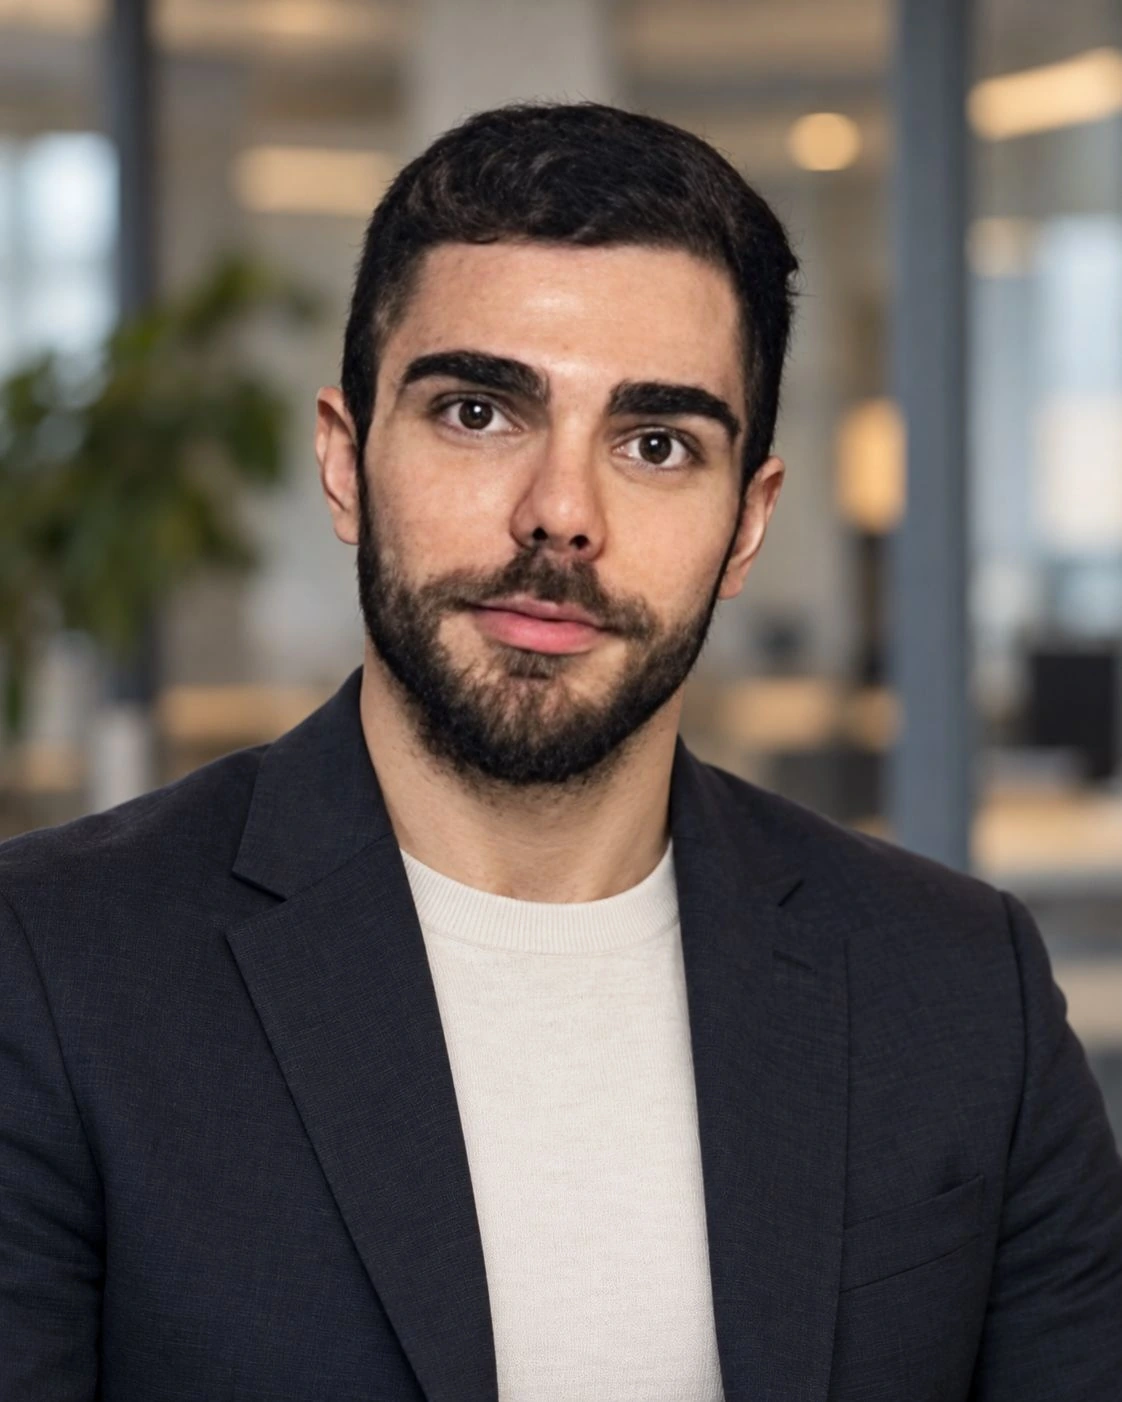
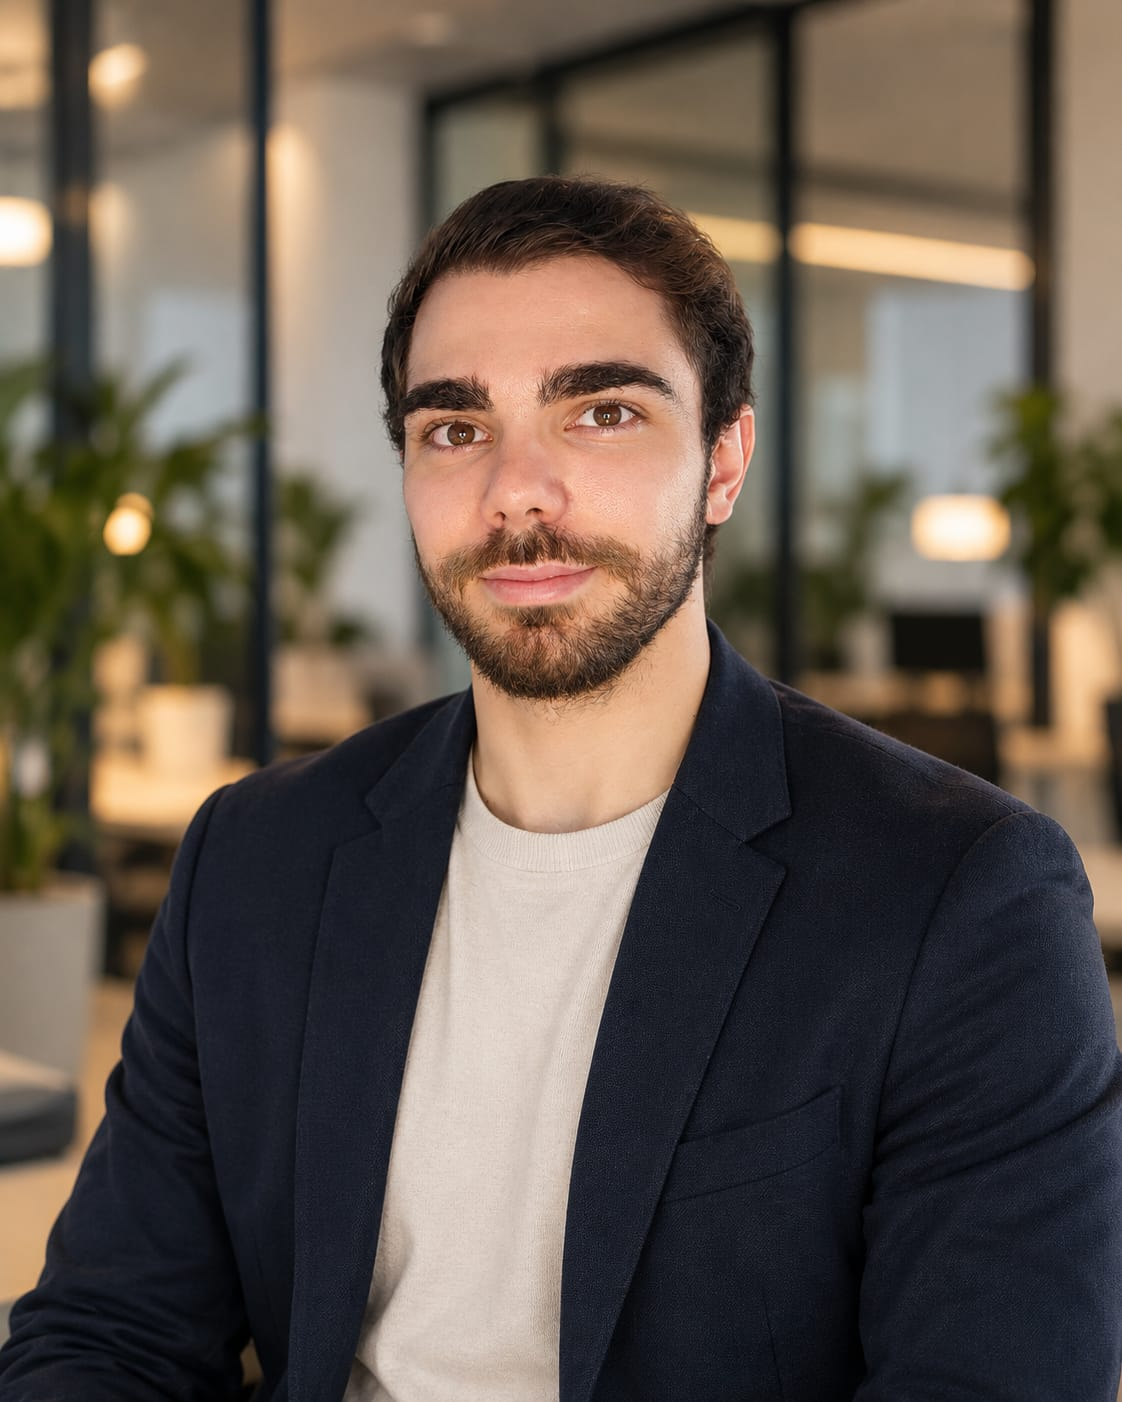
fix(team): update Victor portrait

diff --git a/index.html b/index.html
@@ -1475,7 +1475,7 @@
             </header>
             <div class="person-content" id="victor-ramirez-marcos-details">
               <figure class="person-photo">
-                <img src="/assets/team/victor-ramirez-marcos.webp?v=20261005-equipo-completo" width="1122" height="1402" alt="Víctor Manuel Ramírez" loading="lazy" decoding="async" />
+                <img src="/assets/team/victor-ramirez-marcos.webp?v=20261021-victor" width="1122" height="1402" alt="Víctor Manuel Ramírez" loading="lazy" decoding="async" />
               </figure>
               <div class="person-body">
                 <p class="person-lead" data-es="Detrás de cada clic, hay unas cuantas piezas que tienen que entenderse." data-en="Behind every click, several moving parts need to work together.">Detrás de cada clic, hay unas cuantas piezas que tienen que entenderse.</p>
